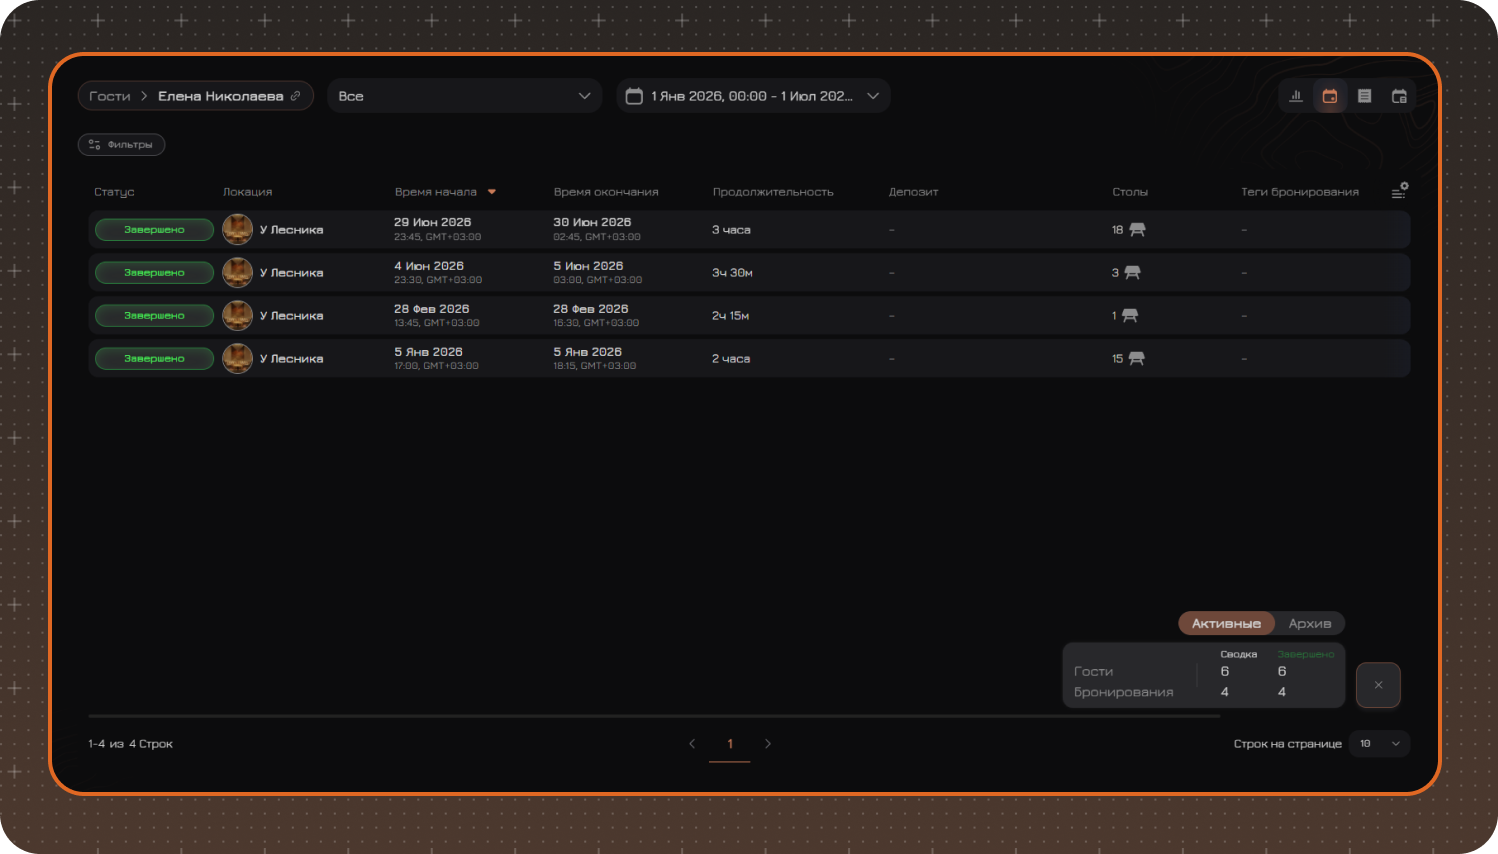
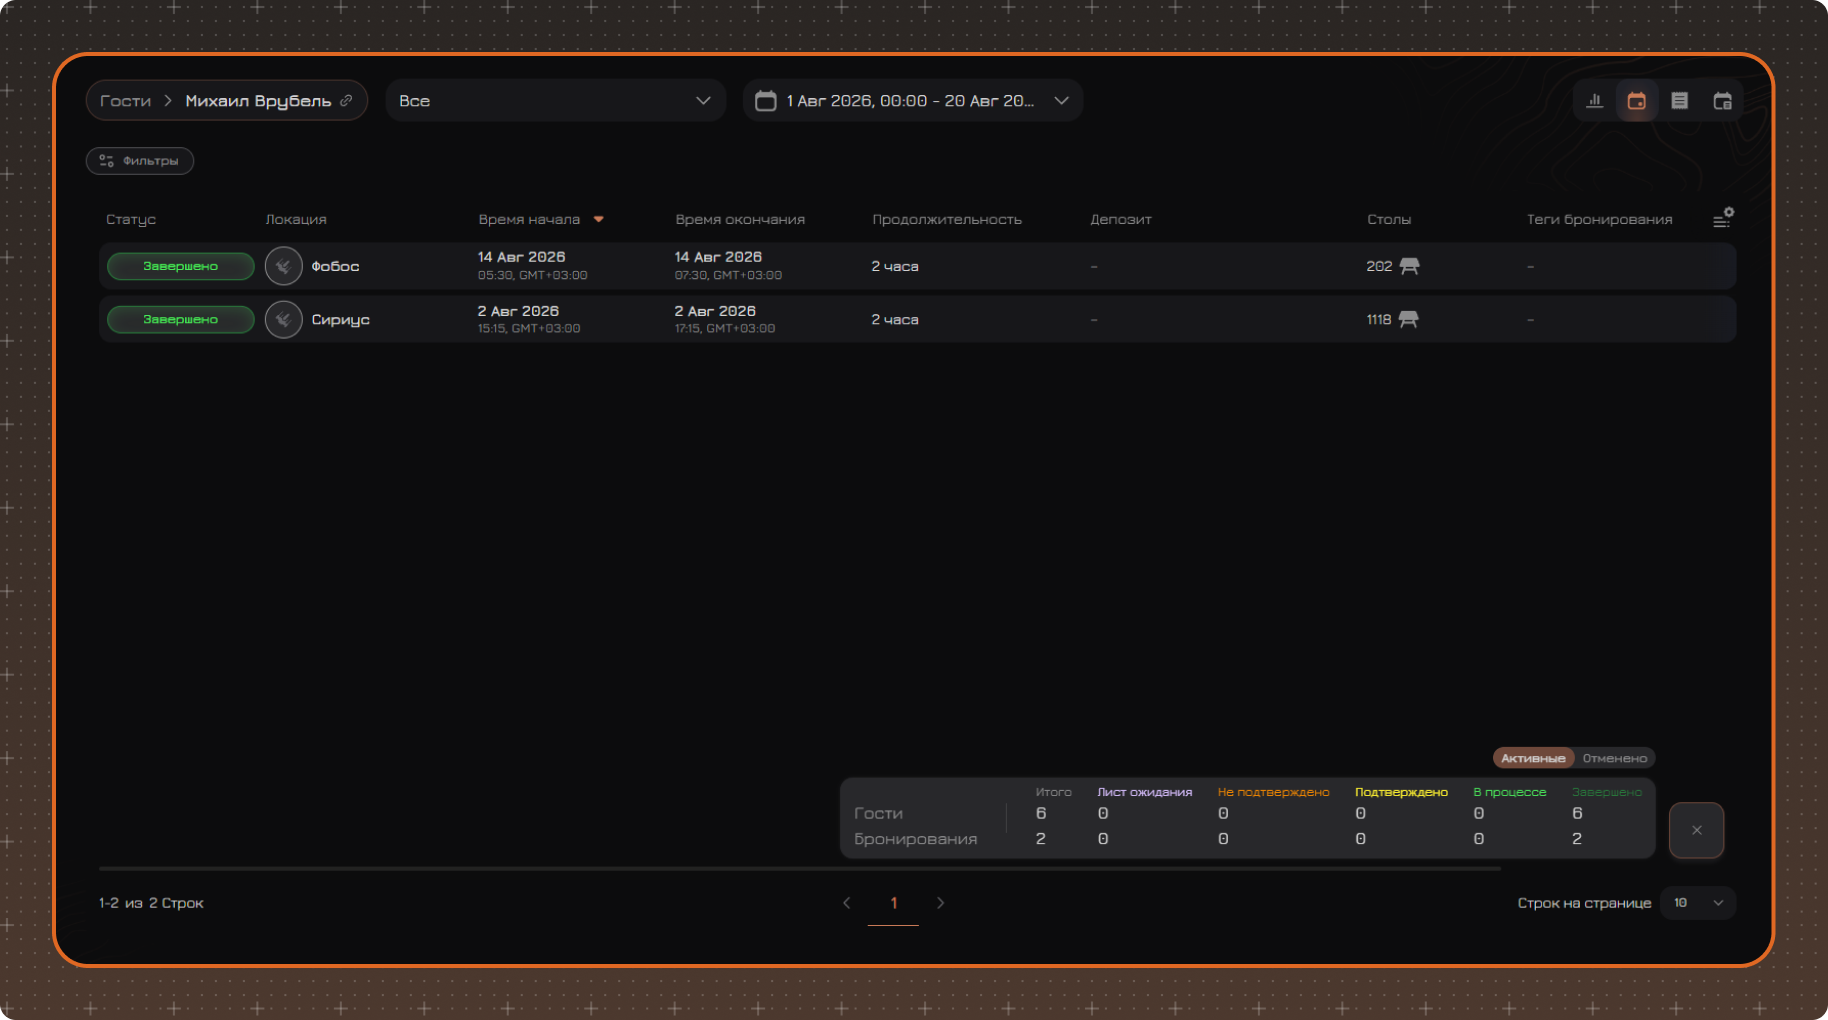
guest update 19avg

diff --git a/content/ru/marketing/guests/3.guests-statistics.md b/content/ru/marketing/guests/3.guests-statistics.md
@@ -3,7 +3,7 @@ title: Карточка гостя
 description: 
 summary: 
 order: 3
-updatedAt: 2026-07-13
+updatedAt: 2026-08-19
 ---
 
 
@@ -70,14 +70,9 @@ updatedAt: 2026-07-13
 
 [[delimiter rows=1]]
 
-Чтобы изменить личные данные гостя, нажмите кнопку с двоеточием и выберите **Редактировать**.
+Чтобы изменить личные данные гостя, нажмите кнопку с двоеточием и выберите **Редактировать**. Внесите необходимые изменения и нажмите **Сохранить**.
 
-После этого можно изменить имя, фамилию, пол, дату рождения, адрес электронной почты, Telegram, телефон или номер карты лояльности.
-
-> **Примечание.** При редактировании личных данных учитывайте следующие ограничения:  
-> ✔ Если к номеру телефона привязана карта лояльности, изменить номер телефона невозможно.  
-> ✔ Номер карты лояльности можно изменить только для VIP-карты, выданной компанией. Номер карты лояльности из другой системы изменить невозможно.  
-> ✔ У гостя с VIP-картой лояльности не может быть указан номер телефона.
+Подробнее о смене номера телефона см. в разделе [**Номера телефона**](/ru/marketing/guests/2.guests-create#номера-телефона).
 
 
 
@@ -89,25 +84,25 @@ updatedAt: 2026-07-13
 
 [[delimiter rows=1]]
 
-**01.** Аватар гостя  
-**02.** Заметка и предпочтения  
-**03.** Программа лояльности   
-**04.** Средний чек на заказ   
-**05.** Средний размер компании   
-**06.** Средний чек на гостя     
-**07.** Среднее количество заказов в месяц  
-**08.** Автотеги и ручные теги  
-**09.** Посещения  
-**10.** Ключевые показатели  
+**1. Аватар гостя**  
+**2. Заметка и предпочтения**  
+**3. Программа лояльности**  
+**4. Средний чек на заказ**  
+**5. Средний размер компании**  
+**6. Средний чек на гостя**  
+**7. Среднее количество заказов в месяц**  
+**8. Автотеги и ручные теги**  
+**9. Посещения**  
+**10. Ключевые показатели** 
 
 ![карточка гостя низ](/ru/images/guests/guest-main-bottom.png) 
 
 [[delimiter rows=1]]
 
-**11.** Всего заплачено  
-**12.** Топ категорий  
-**13.** Топ продуктов  
-**14.** Время посещения  
+**11. Всего заплачено**  
+**12. Топ категорий**  
+**13. Топ продуктов**  
+**14. Время посещения** 
 
 
 ### 1. Аватар гостя
@@ -126,7 +121,7 @@ updatedAt: 2026-07-13
 
 ✔ краткое описание текущего RFM-статуса
 
-Подробную информацию можно найти на странице [RFM](https://wiki.cosmosresto.ru/ru/marketing/rfm/).
+Подробную информацию можно найти на странице **[RFM](https://wiki.cosmosresto.ru/ru/marketing/rfm/)**.
 
 
 ### 2. Заметка и предпочтения
@@ -152,7 +147,7 @@ updatedAt: 2026-07-13
 
 [[delimiter rows=1]]
 
-В верхней части карточки расположен виджет программы лояльности. В нем отображается баланс бонусного счета, привязанного к карте лояльности.
+В верхней части карточки гостя расположен виджет программы лояльности. В нем отображается баланс бонусного счета, привязанного к карте лояльности.
 
 Нажмите на виджет, чтобы открыть список всех бонусных счетов гостя. Для каждого счета отображаются его название и текущий баланс.
 
@@ -164,7 +159,7 @@ updatedAt: 2026-07-13
 
 ### 4. **Средний чек на заказ**
 
-![Средний чек на заказ](/ru/images/guests/avg-check-order.png)
+![Средний чек на заказ](/ru/images/guests/avg-check-per-order.png)
 
 [[delimiter rows=1]]
 
@@ -192,7 +187,7 @@ updatedAt: 2026-07-13
 
 ### 6. **Средний чек на гостя**
 
-![Средний чек на гостя](/ru/images/guests/avg-check-guest.png)
+![Средний чек на гостя](/ru/images/guests/avg-check-per-guest.png)
 
 [[delimiter rows=1]]
 

diff --git a/content/ru/marketing/guests/4.guests-reservations.md b/content/ru/marketing/guests/4.guests-reservations.md
@@ -3,7 +3,7 @@ title: Бронирования
 description: 
 summary: 
 order: 4
-updatedAt: 2026-07-13
+updatedAt: 2026-08-19
 ---
 [[delimiter rows=1]]
 
@@ -13,9 +13,34 @@ updatedAt: 2026-07-13
 
 [[delimiter rows=1]]
 
-### Таблица бронирований
 
-![Выбор столбцов](/ru/images/guests/reservations-column.png)
+
+
+### Сводка бронирований
+
+Нажмите кнопку **Сводка** в нижней части окна.
+
+![брони сводка](/ru/images/guests/guest-res.png)
+
+[[delimiter rows=1]]
+
+![брони сводка отмененные](/ru/images/guests/guest-res-cancelled.png)
+
+[[delimiter rows=1]]
+
+С помощью переключателя **Активные / Отменено** можно просматривать сводку по активным и отменённым бронированиям.
+
+Для активных бронирований данные распределены по статусам, для отменённых — по причинам отмены.
+
+В строке **Гости** указано количество гостей в бронированиях, а в строке **Бронирования** — количество бронирований.
+
+> **Примечание.** Сводка рассчитывается по всем бронированиям, соответствующим выбранным фильтрам.
+
+
+
+### Управление таблицей
+
+![Выбор столбцов](/ru/images/guests/res-column.png)
 
 [[delimiter rows=1]]
 
@@ -29,34 +54,17 @@ updatedAt: 2026-07-13
 ✔ Закрепить нужные столбцы    
 ✔ Вернуть настройки по умолчанию с помощью команды **Сбросить к начальным значениям** 
 
+> **Примечание.**  Настройки таблицы сохраняются после обновления страницы и при переходе между карточками гостей. После выхода из системы настройки сбрасываются.
 
 
 [[delimiter rows=1]]
 
-> **Примечание.** Настройки таблицы сохраняются после обновления страницы и при переходе между карточками гостей. После выхода из системы настройки сбрасываются.
-
-### Сводка
-
-![брони сводка](/ru/images/guests/reservations-total.png)
-
-[[delimiter rows=1]]
-
-Нажмите кнопку **Сводка** в нижней части окна.
-
-Отобразится сводная информация по бронированиям:
-
-✔ количество гостей  
-✔ количество бронирований  
-✔ распределение бронирований по статусам
 
 
-
-
-> **Примечание.** Сводка рассчитывается по всем бронированиям, соответствующим выбранным фильтрам, включая записи на других страницах таблицы.
 
 ### Фильтрация данных
 
-![Заказы с фильтрами](/ru/images/guests/filter-res.png) 
+![Заказы с фильтрами](/ru/images/guests/res-filter.png) 
 
 [[delimiter rows=1]]
 
@@ -79,3 +87,5 @@ updatedAt: 2026-07-13
 
 
 [[delimiter rows=3]]
+
+---

diff --git a/content/ru/marketing/guests/5.guests-orders.md b/content/ru/marketing/guests/5.guests-orders.md
@@ -14,6 +14,34 @@ updatedAt: 2026-07-13
 
 [[delimiter rows=1]]
 
+
+### Просмотр заказа
+
+Нажмите на строку в таблице.
+
+Откроется окно с деталями заказа, в котором можно просмотреть его состав.
+
+![детали заказа](/ru/images/guests/order-details.png)
+
+[[delimiter rows=1]]
+
+
+
+
+
+### Сводка
+
+Нажмите кнопку **Сводка** в нижней части окна.
+
+Отобразится сводная информация о сумме заказов, соответствующих выбранным фильтрам.
+
+![Сумма чеков](/ru/images/guests/orders-total.png) 
+
+[[delimiter rows=1]]
+
+> **Примечание.** В расчет включаются все заказы, соответствующие выбранным фильтрам.
+
+
 ### Таблица заказов
 
 ![Column wizard](/ru/images/guests/orders-column.png)
@@ -31,36 +59,6 @@ updatedAt: 2026-07-13
 ✔ вернуть настройки по умолчанию с помощью команды **Сбросить к начальным значениям**
 
 > **Примечание.** Настройки таблицы сохраняются после обновления страницы и при переходе между карточками гостей. После выхода из системы настройки сбрасываются.
-
-
-
-
-
-### Просмотр заказа
-
-![детали заказа](/ru/images/guests/order-details.png)
-
-[[delimiter rows=1]]
-
-Нажмите на строку в таблице.
-
-Откроется окно с деталями заказа, в котором можно просмотреть его состав.
-
-
-
-### Сводка
-
-![Сумма чеков](/ru/images/guests/orders-total.png) 
-
-[[delimiter rows=1]]
-
-Нажмите кнопку **Сводка** в нижней части окна.
-
-Отобразится сводная информация о сумме заказов, соответствующих выбранным фильтрам.
-
-> **Примечание.** В расчет включаются все заказы, соответствующие выбранным фильтрам, включая записи на других страницах таблицы.
-
-
 
 
 ### Фильтрация данных
